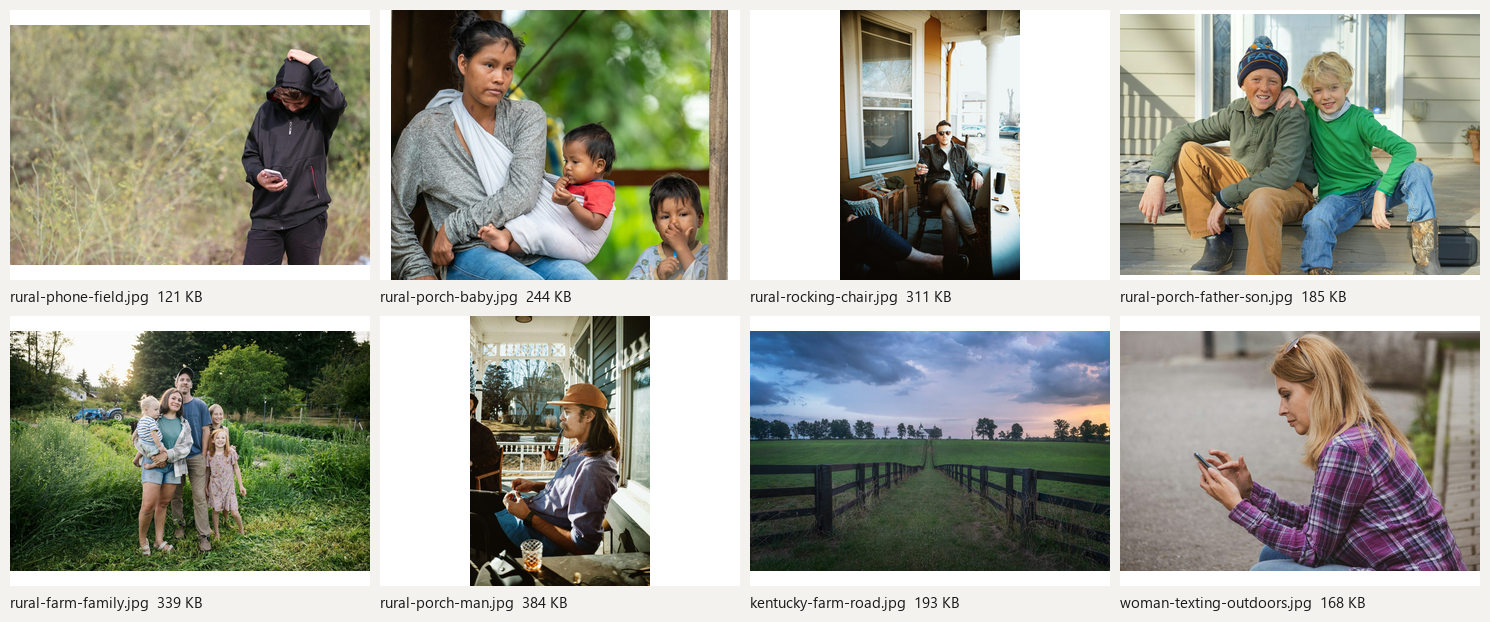
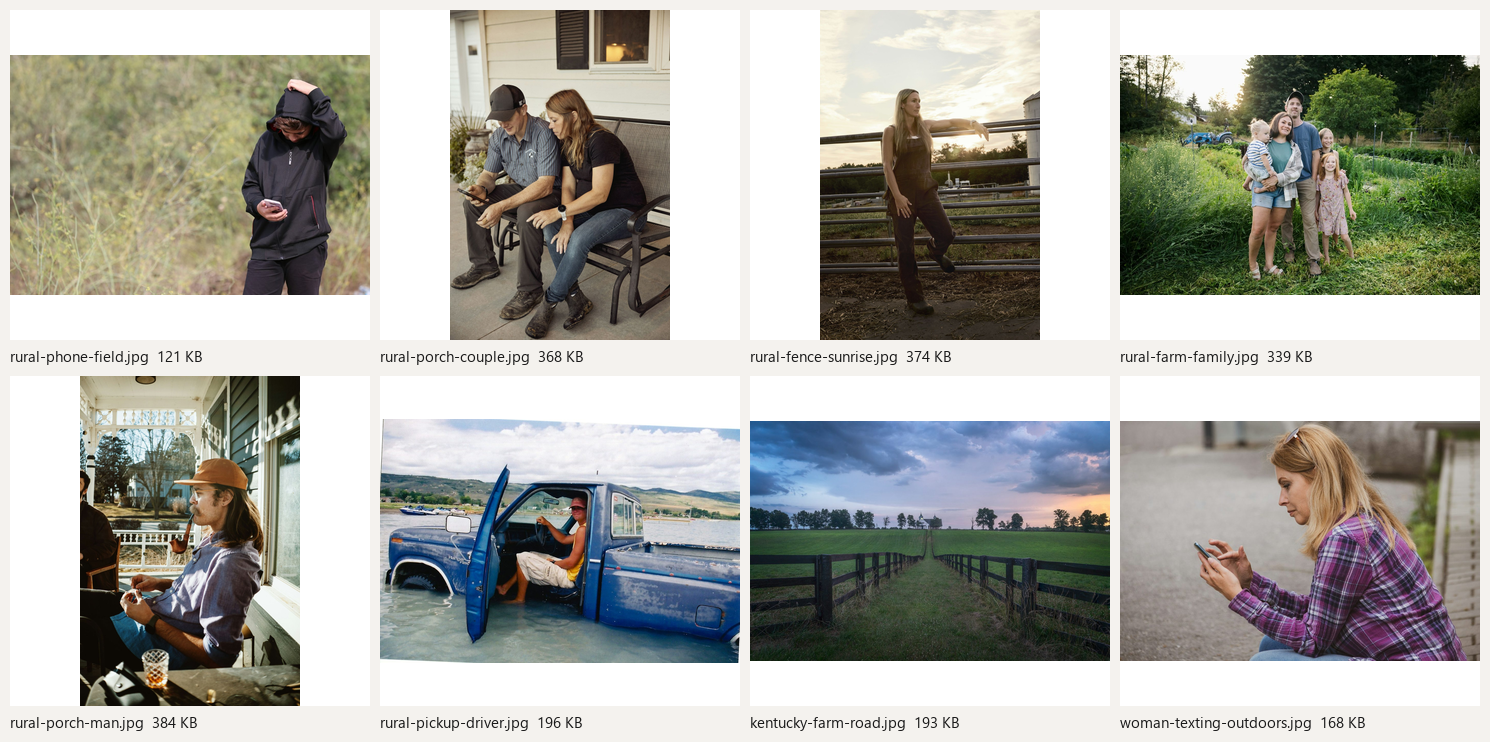
photos: drop three, add three, and say why each was cut
Removes rural-porch-father-son.jpg and rural-porch-baby.jpg on ruling -- a child
is the main subject in both, and the second does not read as rural Appalachian.
Also removes rural-rocking-chair.jpg on a second look: sunglasses, a leather
jacket and posed lounging read as an editorial shoot rather than an ordinary
afternoon, which is the thing the brief asked to avoid.

Five replacements were fetched and judged on a contact sheet before any entered
the repository. Three kept:

  rural-porch-couple   a couple on a porch glider sharing a phone, work boots
                       and a ball cap -- porch, phone and everyday in one frame
  rural-fence-sunrise  overalls, a gate and a silo at dusk; a portrait, but a
                       documentary one on real ground
  rural-pickup-driver  an old truck with the door open, nothing arranged

Two rejected. rural-three-women-farm is shot against a white seamless backdrop
erected on grass, which is a styled portrait session whatever the subjects are
wearing. rural-tailgate-couple is engagement-shoot styling -- backlight, posed
closeness, sandals -- and the cactus places it in the desert.

One thing to weigh rather than assume settled: rural-pickup-driver is Utah, and
the arid hills and lake behind it do not read Appalachian. It meets every stated
rejection test, so it is kept and named here instead of being quietly dropped
for a reason the brief did not list.
[…]

diff --git a/PHOTO-CREDITS.md b/PHOTO-CREDITS.md
@@ -15,19 +15,33 @@ Getty. Fetched from `images.unsplash.com` at `w=1600&q=85`, then resized to
 1400px wide and saved with EXIF and GPS stripped.
 
 - rural-phone-field.jpg: nabil kassir, @grpoint, https://unsplash.com/@grpoint, unsplash id SFiiNYI5KGI, Unsplash License
-- rural-porch-baby.jpg: Bob Brewer, @brewbottle, https://unsplash.com/@brewbottle, unsplash id 3uUhgGTwBoQ, Unsplash License
-- rural-rocking-chair.jpg: Evan Wise, @evanthewise, https://unsplash.com/@evanthewise, unsplash id LbGOEI5nD5c, Unsplash License
-- rural-porch-father-son.jpg: Barbara Lies, @barbaralies, https://unsplash.com/@barbaralies, unsplash id Ie342MqxJvI, Unsplash License
 - rural-farm-family.jpg: Land O'Lakes, Inc., @landolakesinc, https://unsplash.com/@landolakesinc, unsplash id Ab7yCgRb7SM, Unsplash License
 - rural-porch-man.jpg: Evan Wise, @evanthewise, https://unsplash.com/@evanthewise, unsplash id Cj8WdfjYRZ0, Unsplash License
 - kentucky-farm-road.jpg: Intricate Explorer, @intricateexplorer, https://unsplash.com/@intricateexplorer, unsplash id 2TVL1lHp_2U, Unsplash License (Manchester, Kentucky)
 - woman-texting-outdoors.jpg: Ladislav Stercell, @lacostercell, https://unsplash.com/@lacostercell, unsplash id w_HGyzjdBmU, Unsplash License
+- rural-porch-couple.jpg: Portraits of Modern Dairy, https://unsplash.com/@portraitsofmoderndairy, unsplash id XU9PBmAGDD4, Unsplash License (Minnesota)
+- rural-fence-sunrise.jpg: Portraits of Modern Dairy, https://unsplash.com/@portraitsofmoderndairy, unsplash id 7AdnJ27e8qE, Unsplash License (Maryland)
+- rural-pickup-driver.jpg: Adam Winger, @awcreativeut, https://unsplash.com/@awcreativeut, unsplash id lAUc8Uec-f4, Unsplash License (Utah)
 
 `_contact-sheet-rural.png` is a review aid for PR #36 and is to be deleted
 before merge.
 
-One deviation worth recording: `rural-porch-man.jpg` is saved at **quality 79**
+Three files are saved below quality 82, each the smallest step that clears
+400,000 bytes: `rural-porch-man.jpg` at **79**, and `rural-porch-couple.jpg` and
+`rural-fence-sunrise.jpg` at **80**. All three are tall portraits around
+1400x2099 with more than twice the pixel area of the landscapes.
+
+On the first of them: `rural-porch-man.jpg` is saved at **quality 79**
 rather than 82. It is a 1400x2096 portrait, more than twice the pixel area of
 the landscapes, and q82 produced 431,542 bytes -- over the 400 KB bar. q79 is
 the smallest step that clears 400,000 bytes, so it satisfies the bar on either
 reading of "400 KB". Every other file is q82.
+
+Dropped 14 Nov 2026 after review on the contact sheet: `rural-porch-father-son.jpg`
+and `rural-porch-baby.jpg` (a child is the main subject in both; the second also
+does not read as rural Appalachian), `rural-rocking-chair.jpg` (sunglasses,
+leather jacket and posed lounging read as an editorial shoot, not everyday).
+Two further candidates were fetched and not kept: `rural-three-women-farm`
+(shot against a white seamless backdrop, which is a styled portrait session)
+and `rural-tailgate-couple` (engagement-shoot styling, and the cactus places it
+in the desert rather than Appalachia).
